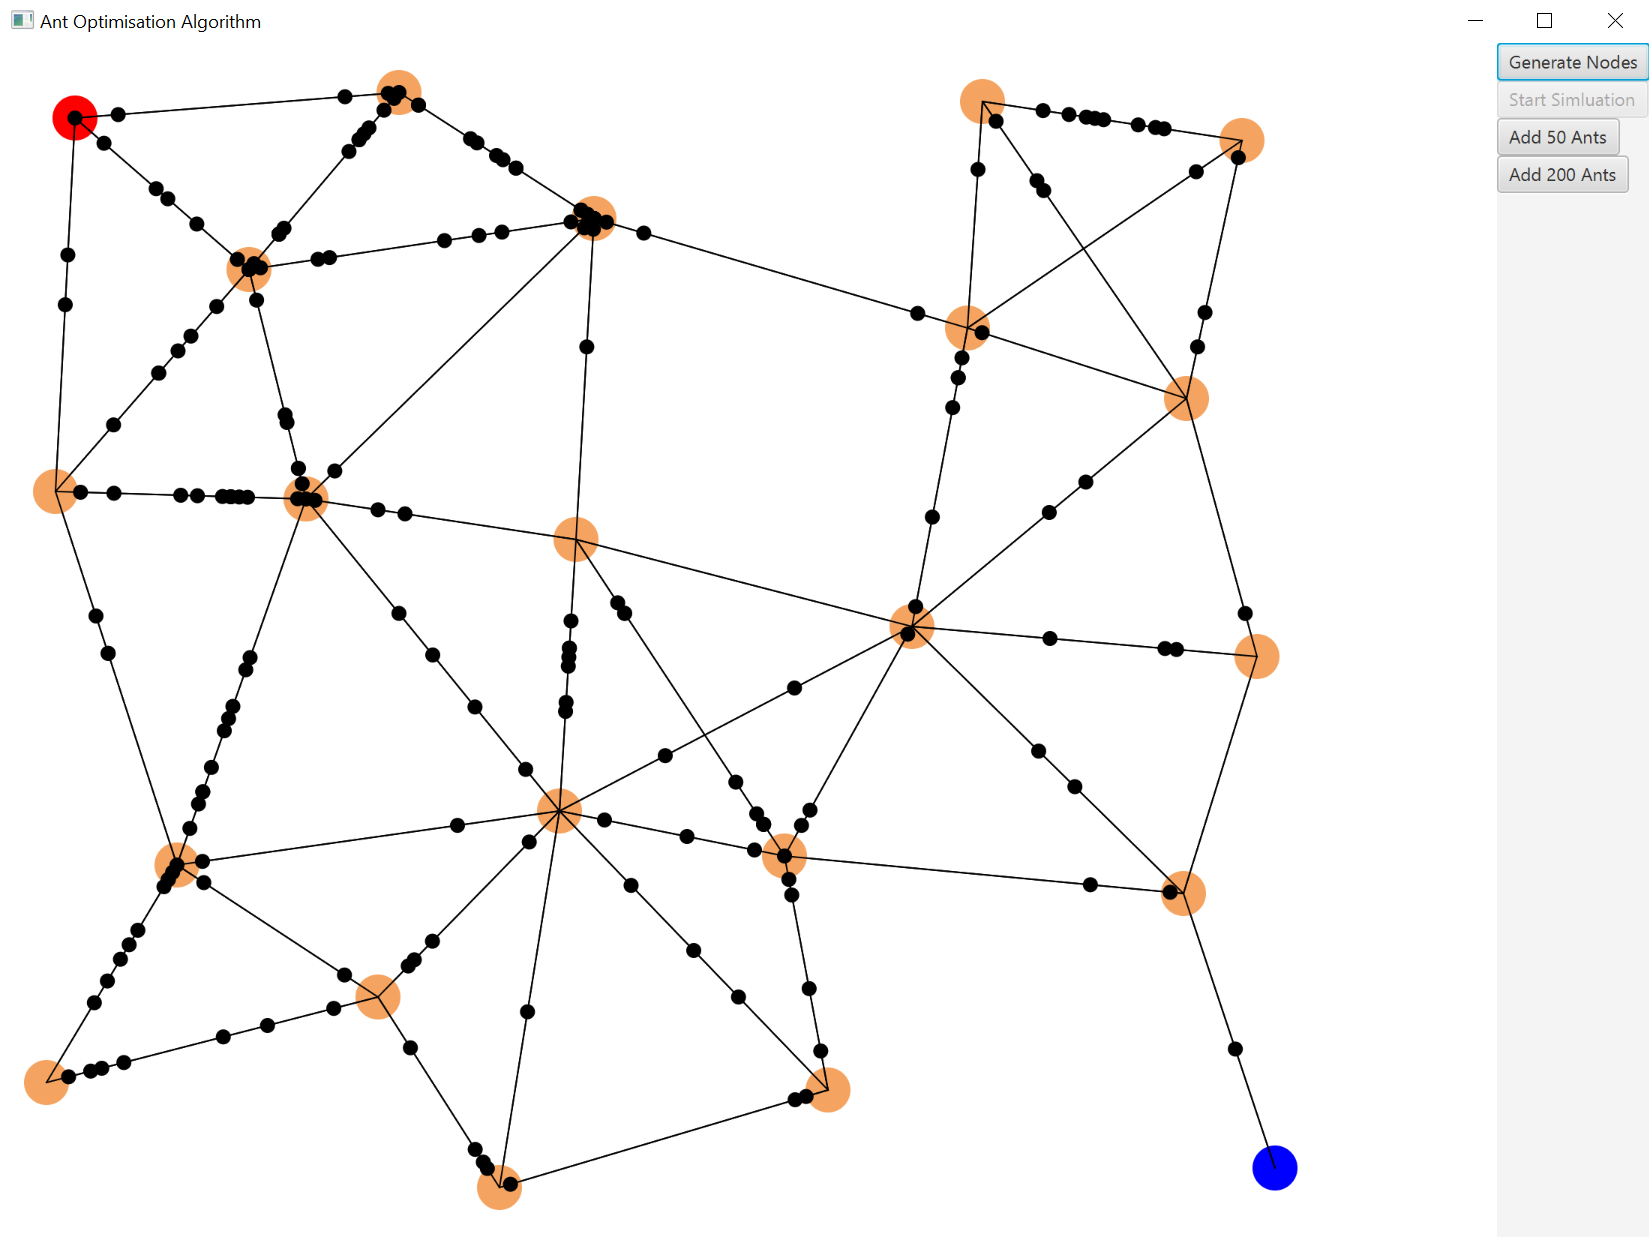
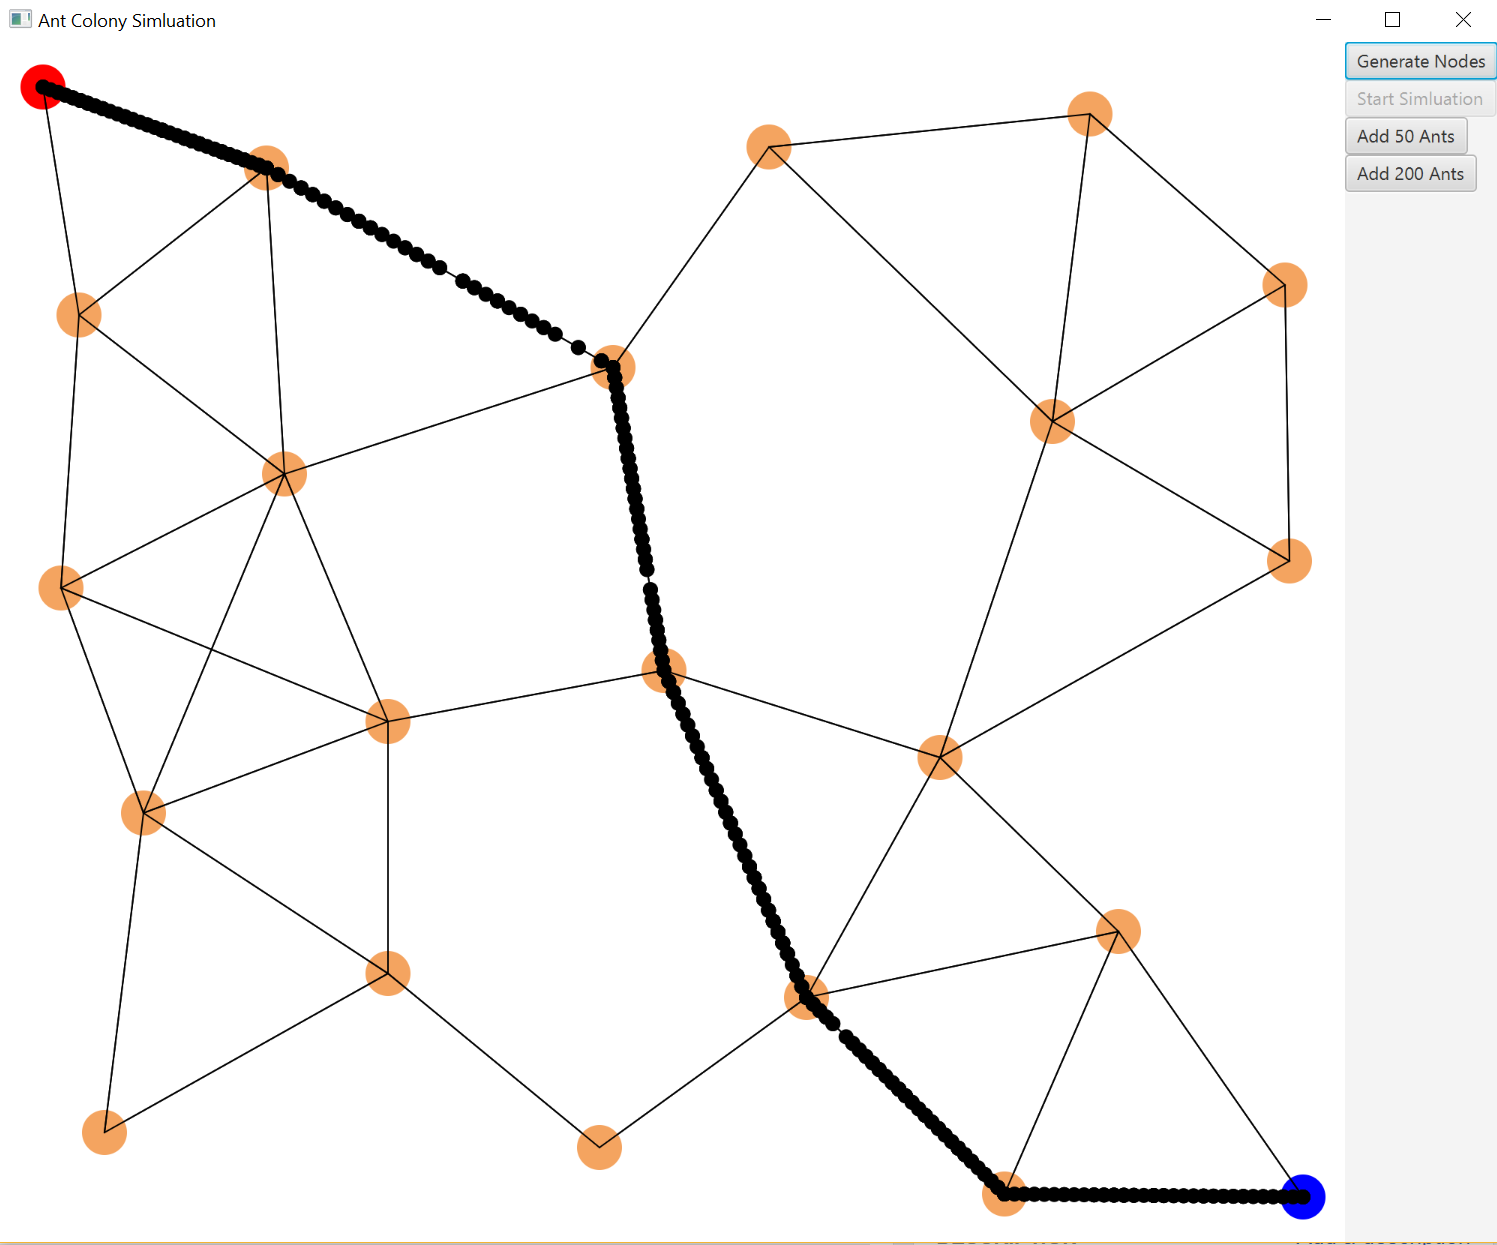
changed UI.png

diff --git a/README.md b/README.md
@@ -1,5 +1,5 @@
-# AntOptimisationAlgorithm
-This is a simple ant colony optimisation simulator writen in Java and JavaFX.
+# AntColonySimulation
+This is a simple ant colony simulator writen in Java and JavaFX.
 
 Run App.java, click on "Generate Nodes" to randomly generate a graph, with start node (red), target node (blue) and 20 intermediate nodes (beige), with each node randomly connected to its surrounding nodes based on the distance apart. Clicking "Generate Nodes" again will rereate a new simulation with new random nodes.
 
